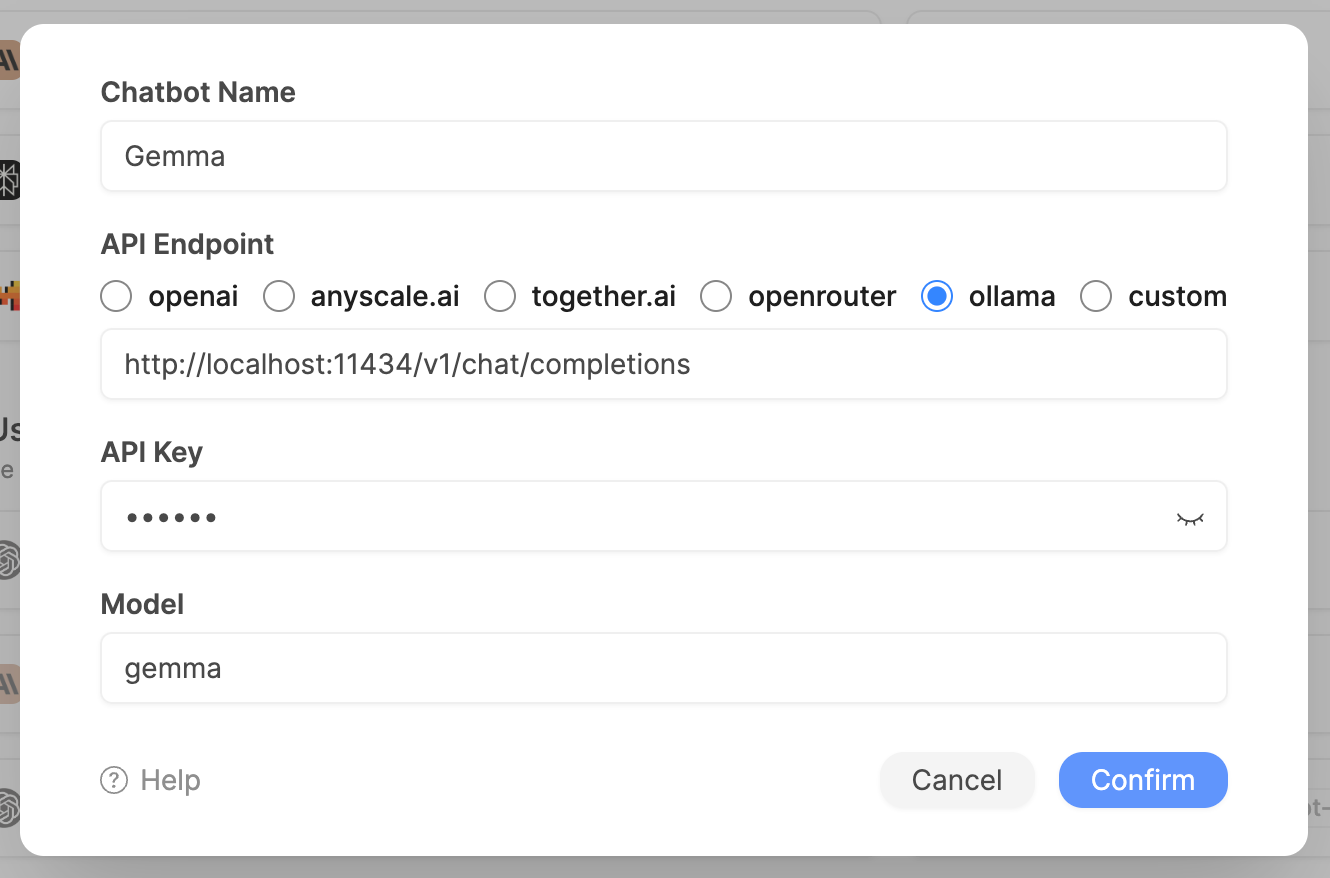
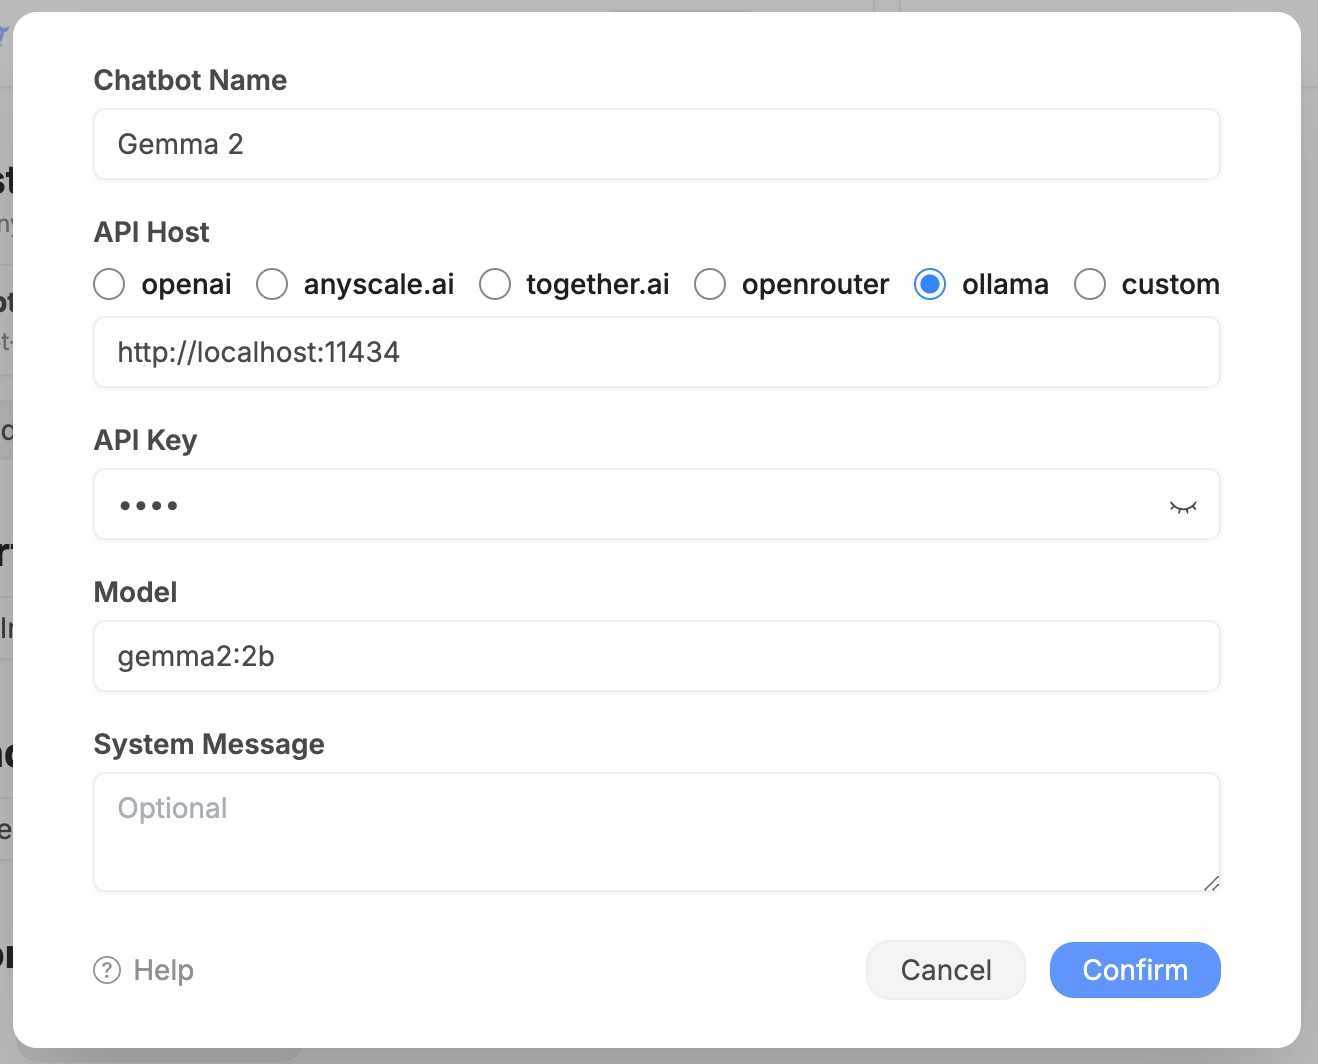
Update screenshot of custom bots

diff --git a/docs/custom-chatbots/xinference.md b/docs/custom-chatbots/xinference.md
@@ -1,6 +1,6 @@
 # Xinference Example
 
-Xorbits Inference(Xinference) is an open-source project to run language models on your own machine. You can use it to serve open-source LLMs like Llama-2 locally.
+Xorbits Inference(Xinference) is an open-source project to run language models on your own machine. You can use it to serve open-source LLMs like Llama-3 locally.
 
 ## Preparation
 
@@ -10,9 +10,9 @@ Follow the instructions at [Using Xinference](https://inference.readthedocs.io/e
 
 ![](./images/xinference.png)
 
-- **API Endpoit**: `http://127.0.0.1:9997/v1/chat/completions`
+- **API Host**: `http://127.0.0.1:9997`
 - **API Key**: random strings
-- **Model**: `llama-2-chat`
+- **Model**: `llama-3-chat`
 
 You can find all the available models at <https://inference.readthedocs.io/en/latest/models/builtin/llm/index.html>
 

diff --git a/docs/custom-chatbots/ollama.md b/docs/custom-chatbots/ollama.md
@@ -1,6 +1,6 @@
 # Ollama Example
 
-[Ollama](https://github.com/ollama/ollama) allows you to run open-source large language models, such as Llama 2, locally.
+[Ollama](https://github.com/ollama/ollama) allows you to run open-source large language models, such as Llama 3, locally.
 
 ## Preparation
 
@@ -10,6 +10,6 @@ Install Ollama and download models.
 
 ![](./images/ollama.png)
 
-We're using the `gemma` model in this example.
+We're using the `gemma2` model in this example.
 
 API Key is required but ignored, so you can input any string.

diff --git a/docs/custom-chatbots/openai.md b/docs/custom-chatbots/openai.md
@@ -10,6 +10,6 @@ Get your **OpenAI API key** from <https://platform.openai.com/api-keys>.
 
 ![](./images/openai.png)
 
-We're using the `gpt-4-1106-preview` model in this example, which is the latest GPT-4 model.
+We're using the `gpt-4o` model in this example.
 
 You can find all the available models from OpenAI website: <https://platform.openai.com/docs/models/overview>.

diff --git a/docs/custom-chatbots/index.md b/docs/custom-chatbots/index.md
@@ -15,7 +15,6 @@ Click the **Add** button to create a new custom chatbot.
 - [OpenAI](./openai)
 - [Anyscale](./anyscale)
 - [Together.ai](./together)
-- [Mistral AI](./mistral)
 - [OpenRouter](./openrouter)
 - [Xinference](./xinference)
 - [Ollama](./ollama)
